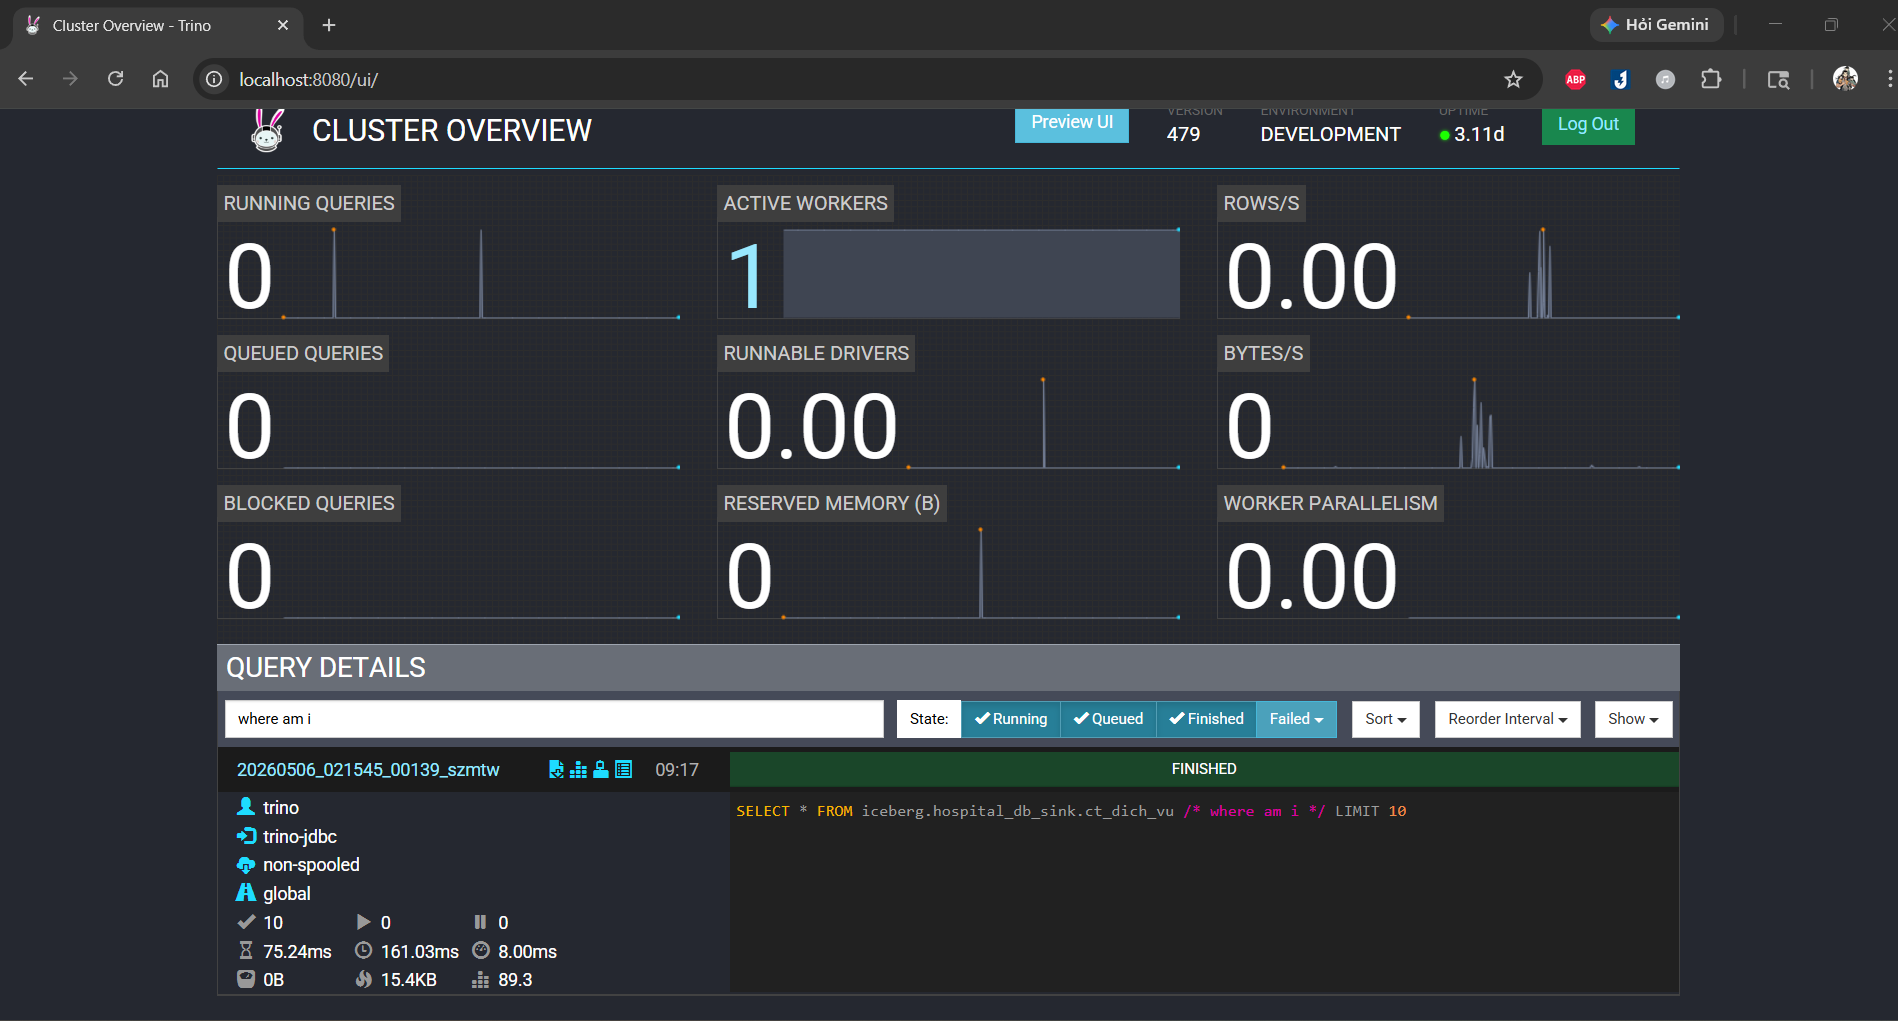
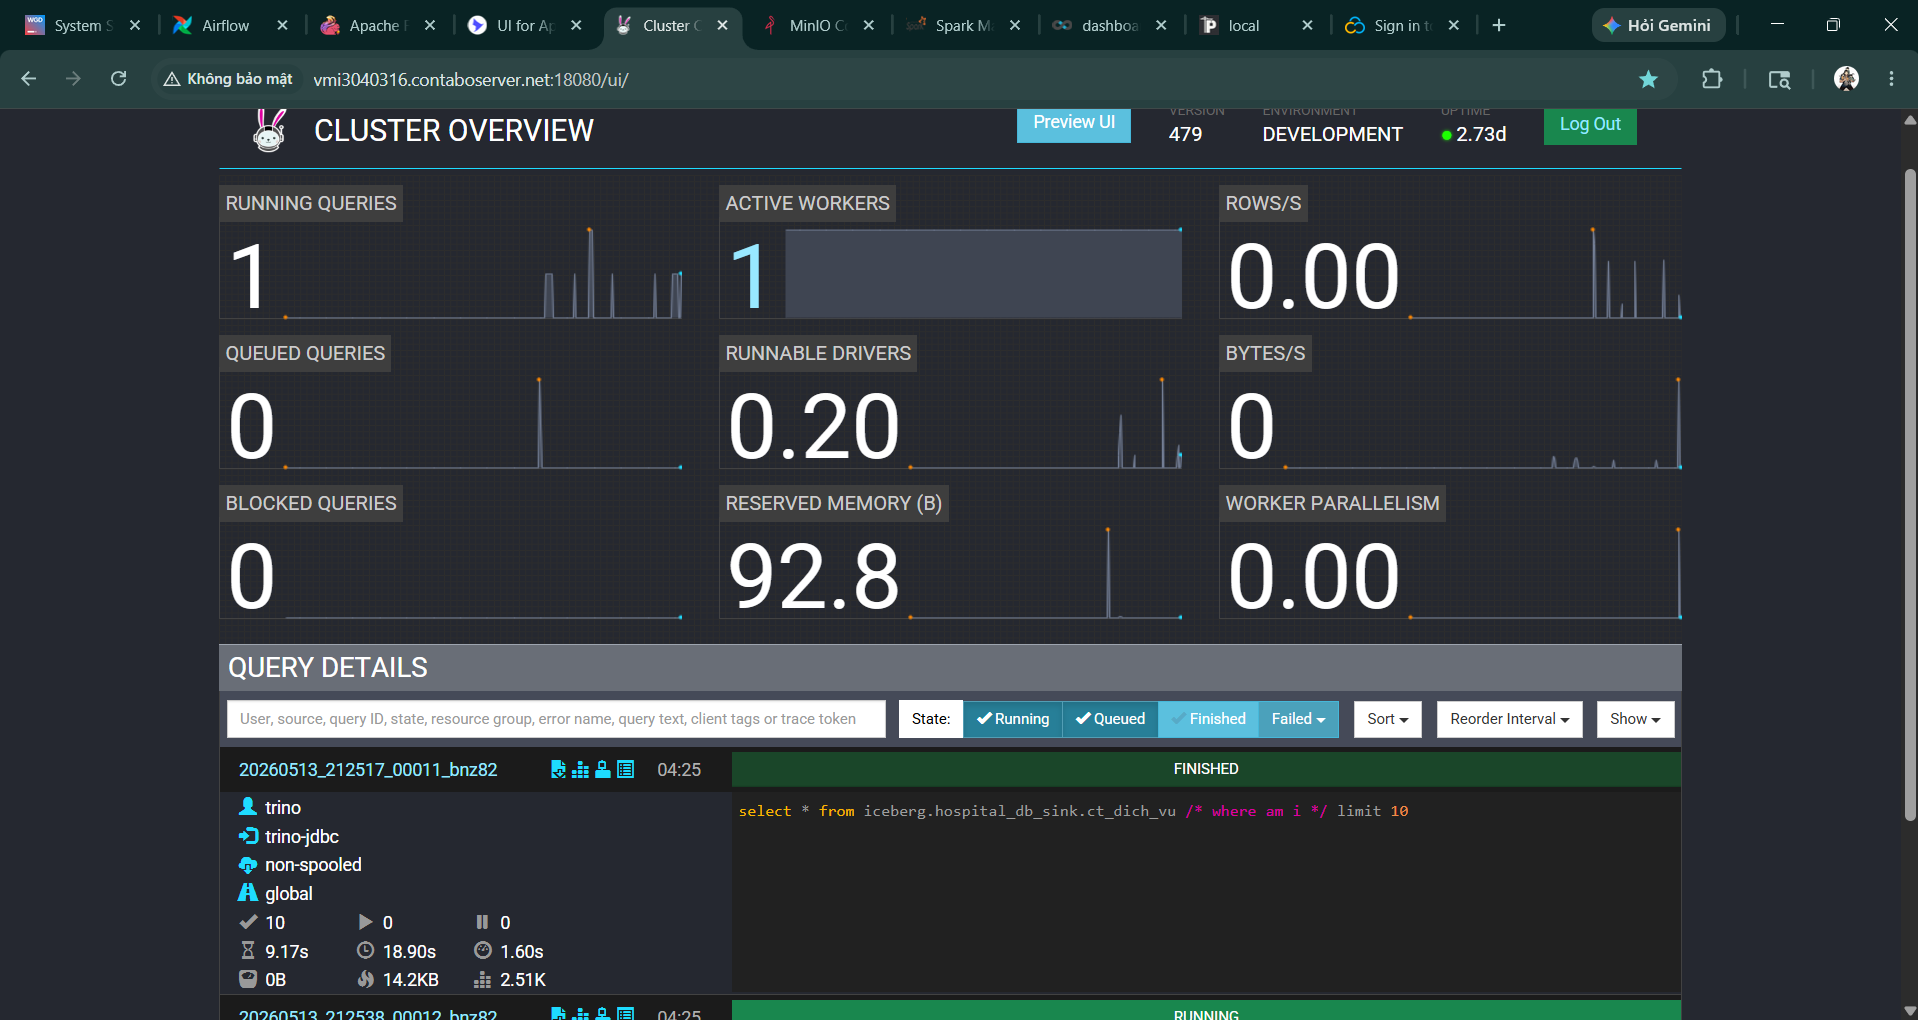
docs: update project branding, refresh documentation links, and add system architecture and dashboard visuals

diff --git a/README.md b/README.md
@@ -1,4 +1,8 @@
-# 🏥 Hospital Data Warehouse System
+# 🏥 Hospital Lakehouse Platform (HIS-Lakehouse)
+
+![System Architecture](images/system/system_architecture.png)
+
+## 📖 Overview
 
 ![Version](https://img.shields.io/badge/version-1.0.0-blue)
 ![License](https://img.shields.io/badge/license-MIT-green)
@@ -82,6 +86,7 @@ The system is deployed on a VPS; you can access the primary services directly he
 
 > [!IMPORTANT]
 > ### 🚀 **PRIMARY ENTRY: [BI PORTAL](http://vmi3040316.contaboserver.net:18083/)**
+> ![BI Portal](images/system/web_bi_portal.png)
 > This is the unified dashboard portal. All users should start here.
 > 
 > **Login Credentials (2-Layer Security):**
@@ -130,12 +135,12 @@ The system implements the **Data Vault 2.0** methodology in the Warehouse layer 
 
 ## 🖼 System Showcases
 
-### 1. Data Lineage & Modeling (dbt)
-The system architecture follows the **Data Vault 2.0** methodology, ensuring high scalability and historical auditability. Below is a focused lineage of the **Financial Fact** flow:
+### 1. Data Modeling & Documentation (dbt)
+The warehouse is built using **Data Vault 2.0** for flexibility and scalability. All models are automatically documented and lineage is tracked.
 
-![Data Vault Lineage](images/system/lineage_graph_fact_thanh_toan.png)
+![Lineage Graph](images/system/lineage_graph_fact_thanh_toan.png)
 
-👉 **[Explore Interactive Lineage & Documentation](http://localhost:8183/)**
+👉 **[Explore Interactive Lineage & Documentation](http://vmi3040316.contaboserver.net:18183/)**
 
 *   **Detailed Modeling Docs**: See [Data Vault 2.0 Documents](docs/modeling/data_vault_documents.md) for entity definitions.
 
@@ -170,9 +175,15 @@ The entire workflow is orchestrated by Airflow, with real-time failure alerts an
 *   **Data Lake Storage (MinIO)**: Distributed object storage for Apache Iceberg tables, acting as the foundation of the Medallion architecture.
     ![MinIO](images/system/service_minio.png)
 
+### 5. Network & Security (WGDashboard)
+Secure access to the infrastructure is managed via WireGuard VPN, with a centralized dashboard for peer management.
+
+![WGDashboard](images/system/wgdashboard.png)
+
 ---
 
 ## 📝 Contact
 - **Project Lead**: Nguyễn Thanh Tính
 - **Email**: thanhtinh.de@gmail.com
+- **Git**: https://github.com/OLD-SILVER-org
 - **Version**: 1.0.0
